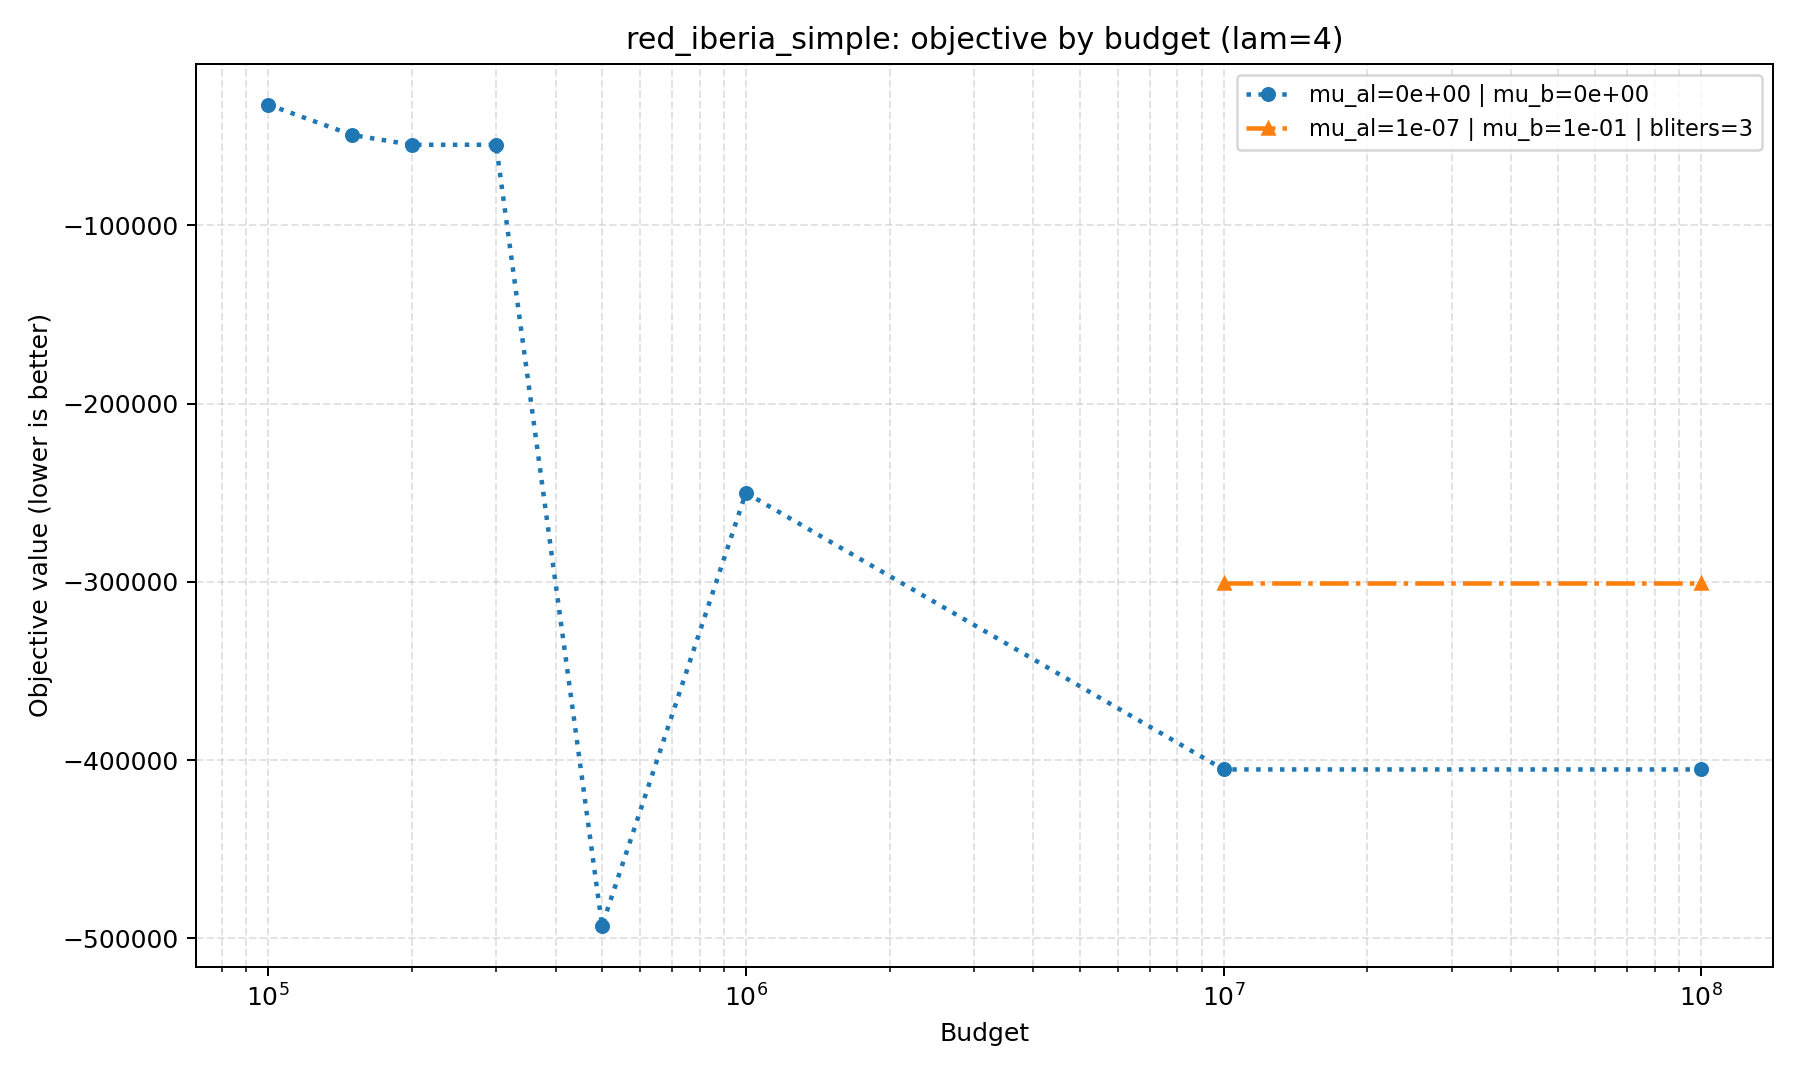
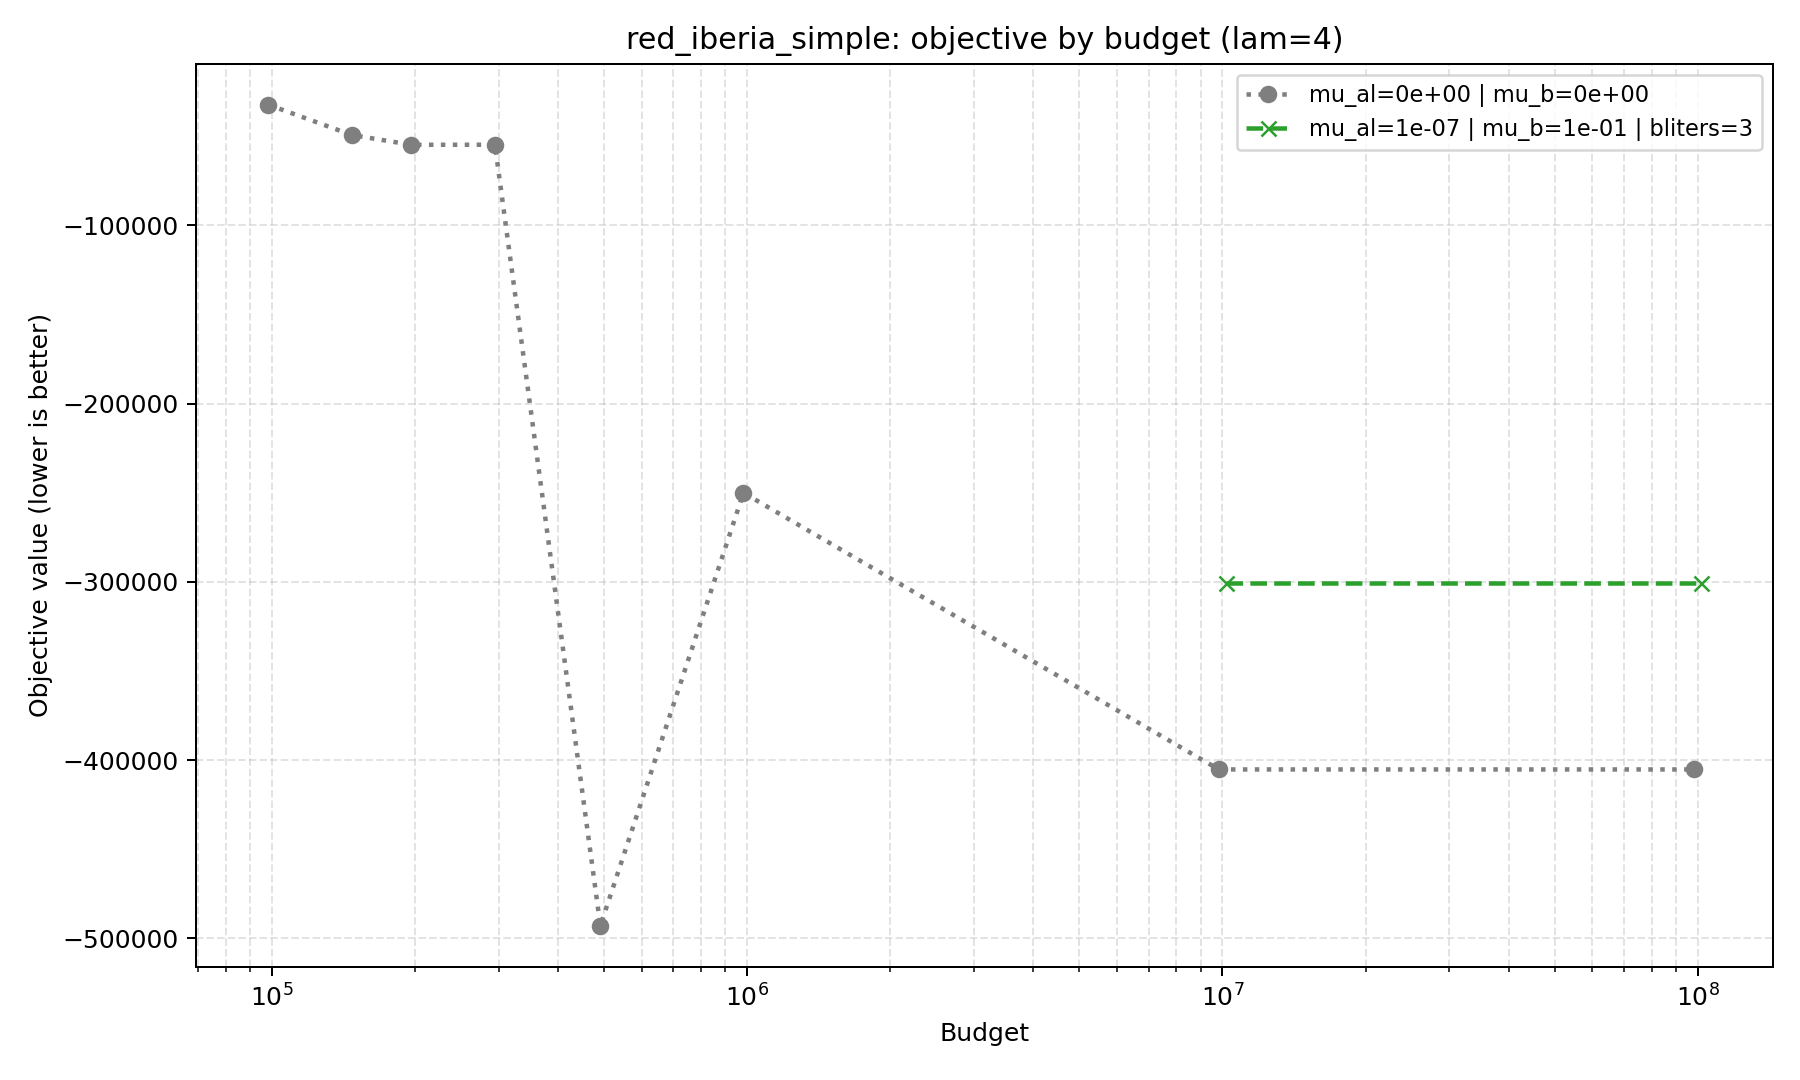
Standardize objective plot colors with computational times and add horizontal jittering to prevent line overlap

diff --git a/red_iberia_simple/compare_longrun_objectives.py b/red_iberia_simple/compare_longrun_objectives.py
@@ -193,21 +193,52 @@ def plot_objective_by_budget(df: pd.DataFrame) -> None:
             mu_al = float(first_row["mu_alfa"])
             mu_bet = float(first_row["mu_beta"])
             
-            # Premium & distinct line/marker styles
-            if is_longrun:
-                linestyle, marker, linewidth, markersize = "-", "D", 2.6, 7
-            elif mu_al == 0.0 and mu_bet == 0.0:
-                linestyle, marker, linewidth, markersize = ":", "o", 1.8, 5
-            elif mu_al == 1e-7 and mu_bet == 5e-3:
-                linestyle, marker, linewidth, markersize = "--", "s", 1.8, 5
+            # Premium & distinct line/marker styles matching the color scheme of computational times
+            if mu_al == 0.0 and mu_bet == 0.0:
+                color = "#7f7f7f"  # Grey for Baseline
+                linestyle = ":"
+                marker = "o"
+                linewidth = 1.8
+                markersize = 6
             elif np.isclose(mu_al, 1e-8) and np.isclose(mu_bet, 1e-3):
-                linestyle, marker, linewidth, markersize = "-.", "v", 1.8, 5
+                color = "#e67e22" if is_longrun else "#1f77b4"  # Orange for bliters=10, Blue for bliters=3
+                if is_longrun:
+                    linestyle = "-"
+                    marker = "^"
+                    linewidth = 2.4
+                    markersize = 7
+                else:
+                    linestyle = "-."
+                    marker = "v"
+                    linewidth = 1.8
+                    markersize = 6
+            elif np.isclose(mu_al, 1e-7) and np.isclose(mu_bet, 5e-3):
+                color = "#e67e22" if is_longrun else "#1f77b4"  # Orange for bliters=10, Blue for bliters=3
+                if is_longrun:
+                    linestyle = "-"
+                    marker = "D"
+                    linewidth = 2.4
+                    markersize = 7
+                else:
+                    linestyle = "--"
+                    marker = "s"
+                    linewidth = 1.8
+                    markersize = 6
             else:
-                linestyle, marker, linewidth, markersize = "-.", "^", 1.8, 5
+                color = "#2ca02c"  # Fallback green
+                linestyle = "-" if is_longrun else "--"
+                marker = "x"
+                linewidth = 1.8
+                markersize = 6
+
+            # Jittering to avoid overlapping lines and points on the log-scale x-axis
+            jitter_factor = 1.0 + (i - (num_series - 1) / 2) * 0.035
+            jittered_budgets = df_series["budget"] * jitter_factor
 
             ax.plot(
-                df_series["budget"],
+                jittered_budgets,
                 df_series["obj_val"],
+                color=color,
                 linestyle=linestyle,
                 marker=marker,
                 linewidth=linewidth,